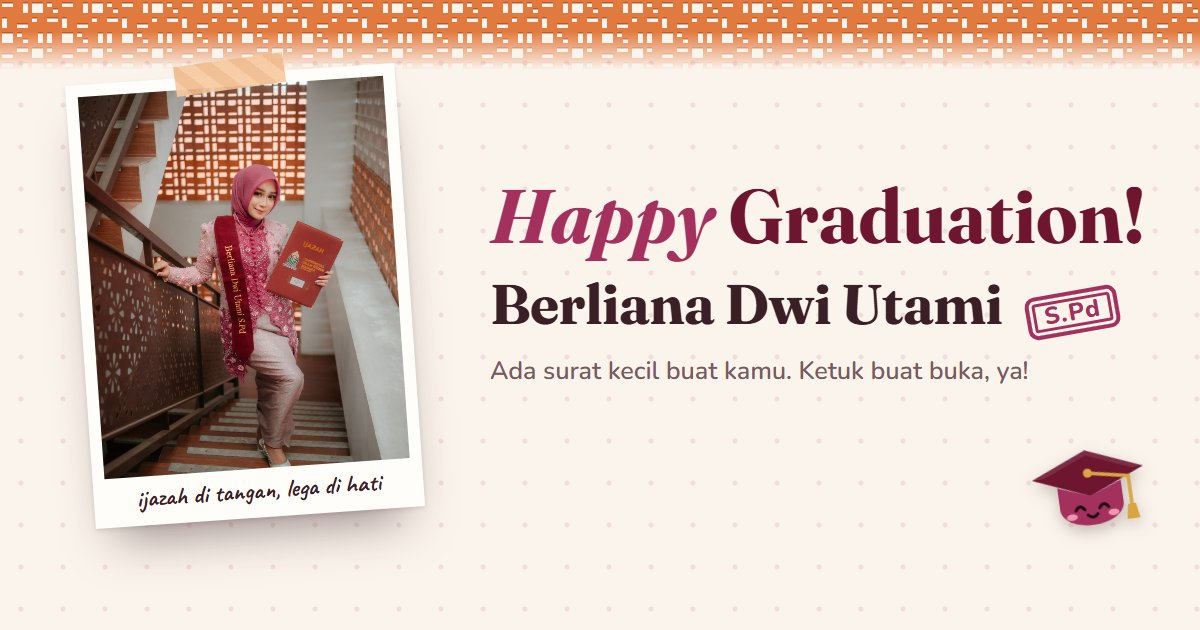
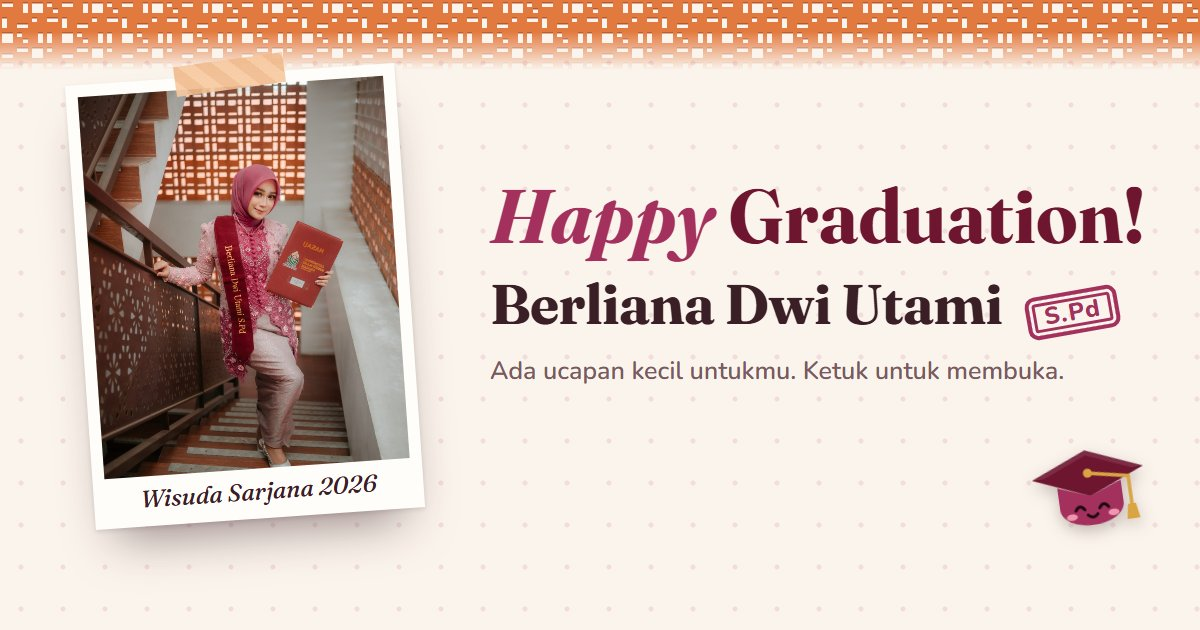
Caption foto lebih formal, pratinjau link baru, salin link di browser Instagram
- Caption foto ijazah dan foto lift jadi 'Wisuda Sarjana 2026' dan
  'Sarjana Pendidikan', sama dengan story Instagram
- og.jpg dan deskripsi pratinjau link diperbarui
- Tombol Bagikan: cadangan salin link untuk browser bawaan aplikasi

Changed region(s): [[0.4317, 0.573, 0.8942, 0.6032], [0.0925, 0.754, 0.3392, 0.8143]]

diff --git a/app.js b/app.js
@@ -11,8 +11,8 @@
 
   /* Urutan foto: 0 = hero, 1..6 = album, 7 = penutup */
   const PHOTOS = [
-    { n: 8, pos: '50% 30%', cap: 'ijazah di tangan, lega di hati', alt: 'Berliana memegang map ijazah UIN Madura sambil tersenyum di tangga' },
-    { n: 7, pos: '50% 48%', cap: 'mode happy: ON', alt: 'Berliana berpose ceria di dekat lift dengan selempang nama' },
+    { n: 8, pos: '50% 30%', cap: 'Wisuda Sarjana 2026', alt: 'Berliana memegang map ijazah UIN Madura sambil tersenyum di tangga' },
+    { n: 7, pos: '50% 48%', cap: 'Sarjana Pendidikan', alt: 'Berliana berpose ceria di dekat lift dengan selempang nama' },
     { n: 4, pos: '50% 34%', cap: 'pose anggun, dikit', alt: 'Berliana berdiri anggun dengan kebaya merah muda dan selempang wisuda' },
     { n: 3, pos: '50% 40%', cap: 'ngaca dulu, biar makin cakep', alt: 'Berliana tersenyum di depan cermin dengan dinding roster oranye' },
     { n: 1, pos: '50% 32%', cap: 'satu aja udah cakep, ini dua', alt: 'Berliana dan pantulannya di kaca sambil memegang buket bunga' },
@@ -812,14 +812,32 @@
       url: location.href.split('#')[0],
     };
     if (navigator.share) {
-      try { await navigator.share(data); } catch (e) { /* dibatalkan */ }
-      return;
+      try {
+        await navigator.share(data);
+        return;
+      } catch (e) {
+        if (e && e.name === 'AbortError') return; // dibatalkan pengguna
+        // browser bawaan aplikasi (mis. Instagram) kadang menolak: lanjut salin link
+      }
     }
     try {
-      await navigator.clipboard.writeText(data.url);
-      toast('Link sudah disalin');
-    } catch (e) {
-      toast('Salin link dari address bar, ya');
-    }
+      if (navigator.clipboard && window.isSecureContext) {
+        await navigator.clipboard.writeText(data.url);
+        toast('Link sudah disalin');
+        return;
+      }
+    } catch (e) { /* lanjut ke cara lama */ }
+    // cara lama untuk WebView yang tidak mendukung Clipboard API
+    const ta = document.createElement('textarea');
+    ta.value = data.url;
+    ta.setAttribute('readonly', '');
+    ta.style.cssText = 'position:fixed;top:-1000px;left:0;opacity:0';
+    document.body.appendChild(ta);
+    ta.select();
+    ta.setSelectionRange(0, data.url.length);
+    let copied = false;
+    try { copied = document.execCommand('copy'); } catch (e) { copied = false; }
+    ta.remove();
+    toast(copied ? 'Link sudah disalin' : 'Link: wisuda.bisnispamekasan.biz.id');
   });
 })();

diff --git a/index.html b/index.html
@@ -9,7 +9,7 @@
 <meta property="og:type" content="website">
 <meta property="og:url" content="https://wisuda.bisnispamekasan.biz.id/">
 <meta property="og:title" content="Happy Graduation, Berliana Dwi Utami, S.Pd!">
-<meta property="og:description" content="Ada surat kecil buat kamu. Ketuk buat buka, ya!">
+<meta property="og:description" content="Ada ucapan kecil untukmu. Ketuk untuk membuka.">
 <meta property="og:image" content="https://wisuda.bisnispamekasan.biz.id/og.jpg">
 <meta property="og:image:width" content="1200">
 <meta property="og:image:height" content="630">
@@ -84,7 +84,7 @@
           <img src="foto/8-s.jpg" srcset="foto/8-s.jpg 560w, foto/8.jpg 1200w" sizes="(min-width: 860px) 400px, 76vw"
                width="560" height="700" fetchpriority="high" decoding="async"
                alt="Berliana memegang map ijazah UIN Madura sambil tersenyum di tangga" style="--pos:50% 30%">
-          <span class="cap hand">ijazah di tangan, lega di hati</span>
+          <span class="cap hand">Wisuda Sarjana 2026</span>
         </button>
       </div>
       <svg class="sticker-ring" viewBox="0 0 100 100" aria-hidden="true">
